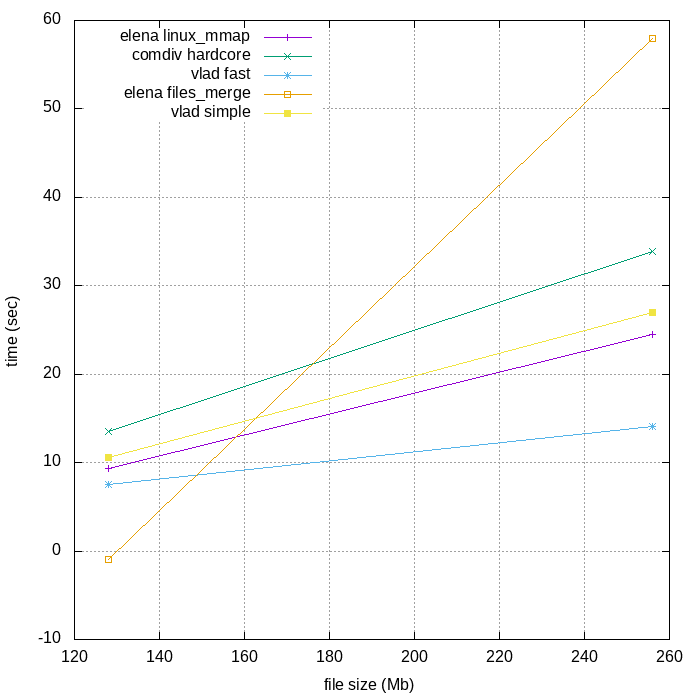
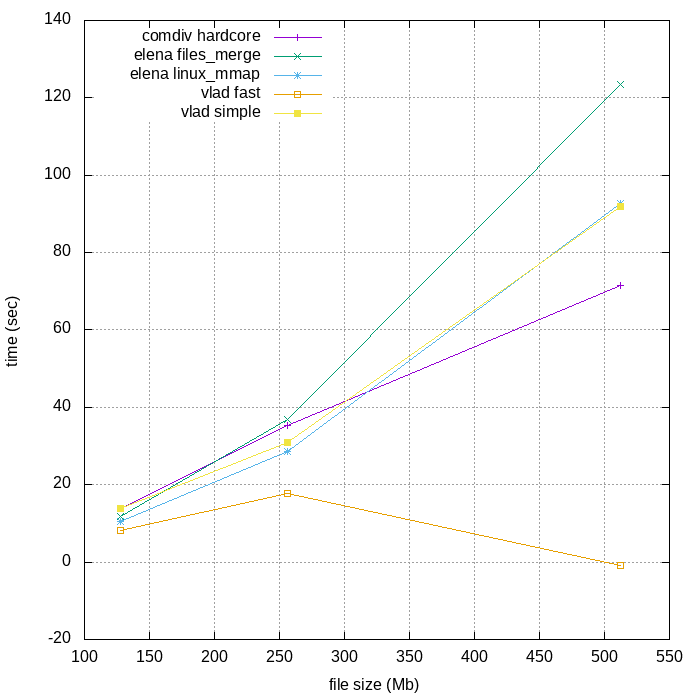
new results

diff --git a/results.md b/results.md
@@ -1,15 +1,20 @@
-elena linux_mmap:
-128 9.38
-256 24.51
 comdiv hardcore:
-128 13.47
-256 33.92
-vlad fast:
-128 7.49
-256 14.13
+128 13.83
+256 35.22
+512 71.39
 elena files_merge:
-128 failed
-256 58.01
-vlad simple:
+128 11.79
+256 36.98
+512 123.39
+elena linux_mmap:
 128 10.56
-256 26.96
+256 28.68
+512 92.74
+vlad fast:
+128 8.23
+256 17.86
+512 failed
+vlad simple:
+128 13.94
+256 30.81
+512 92.01
